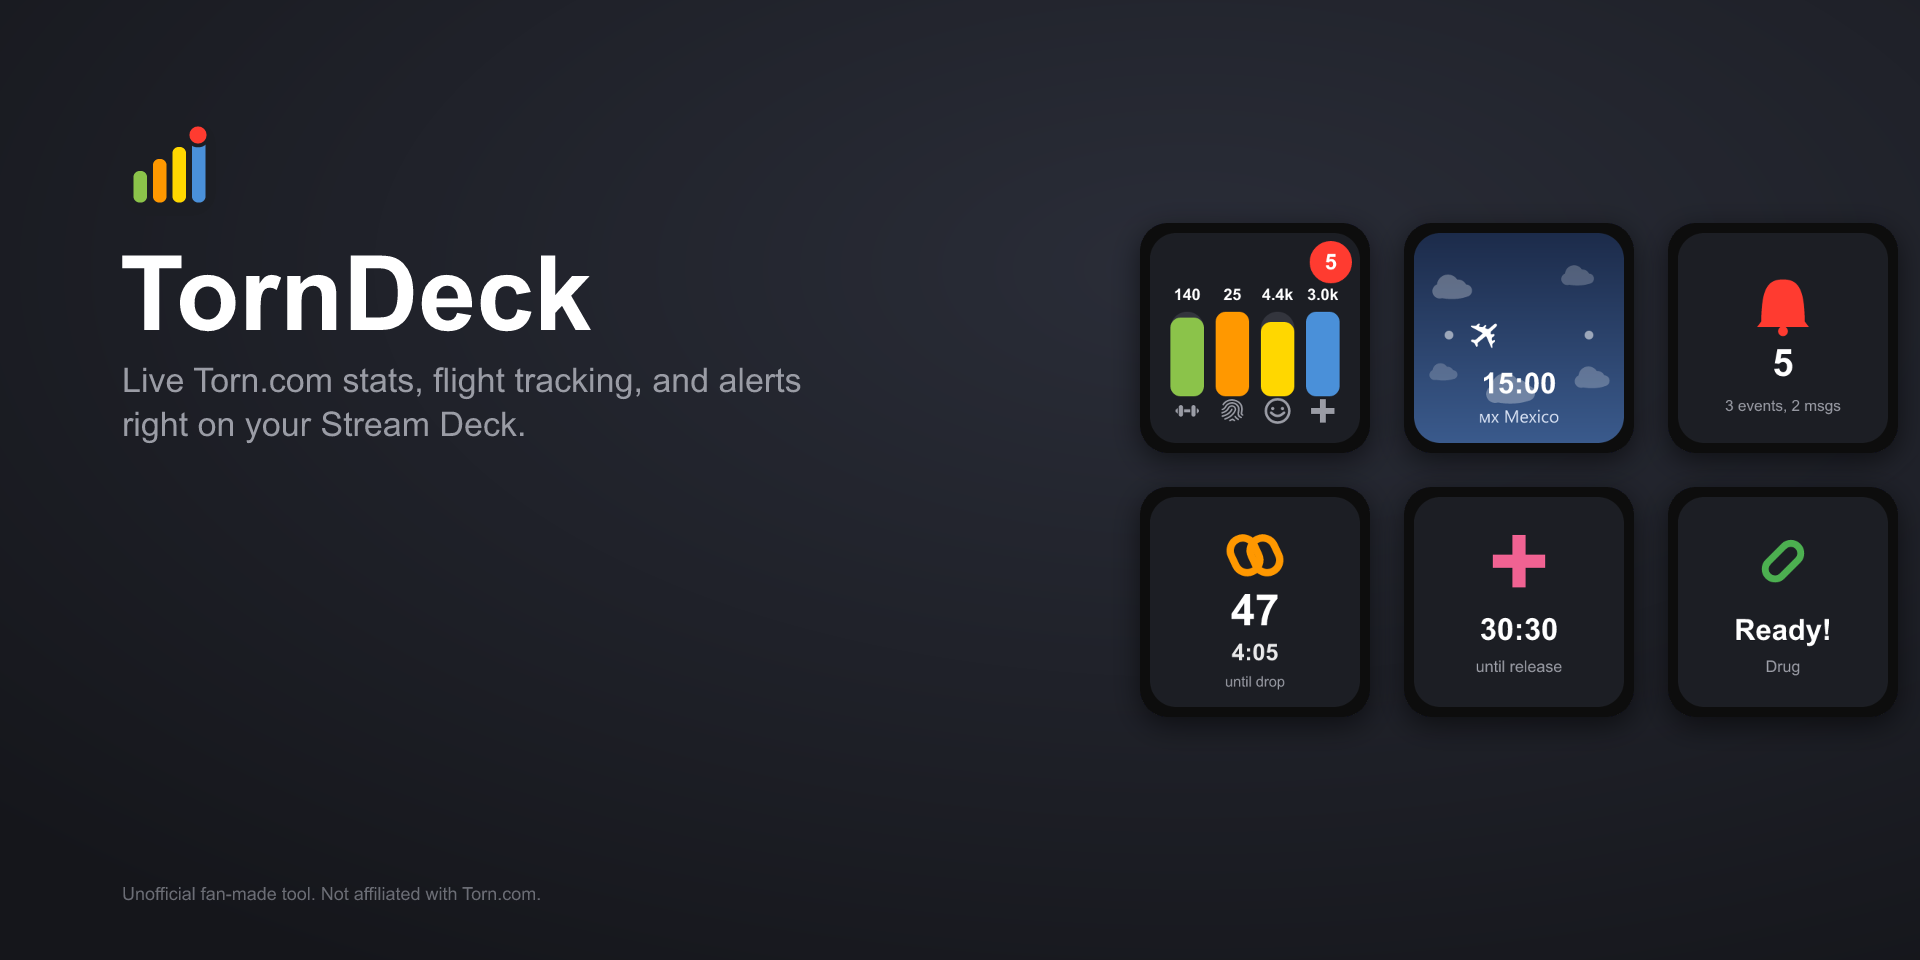
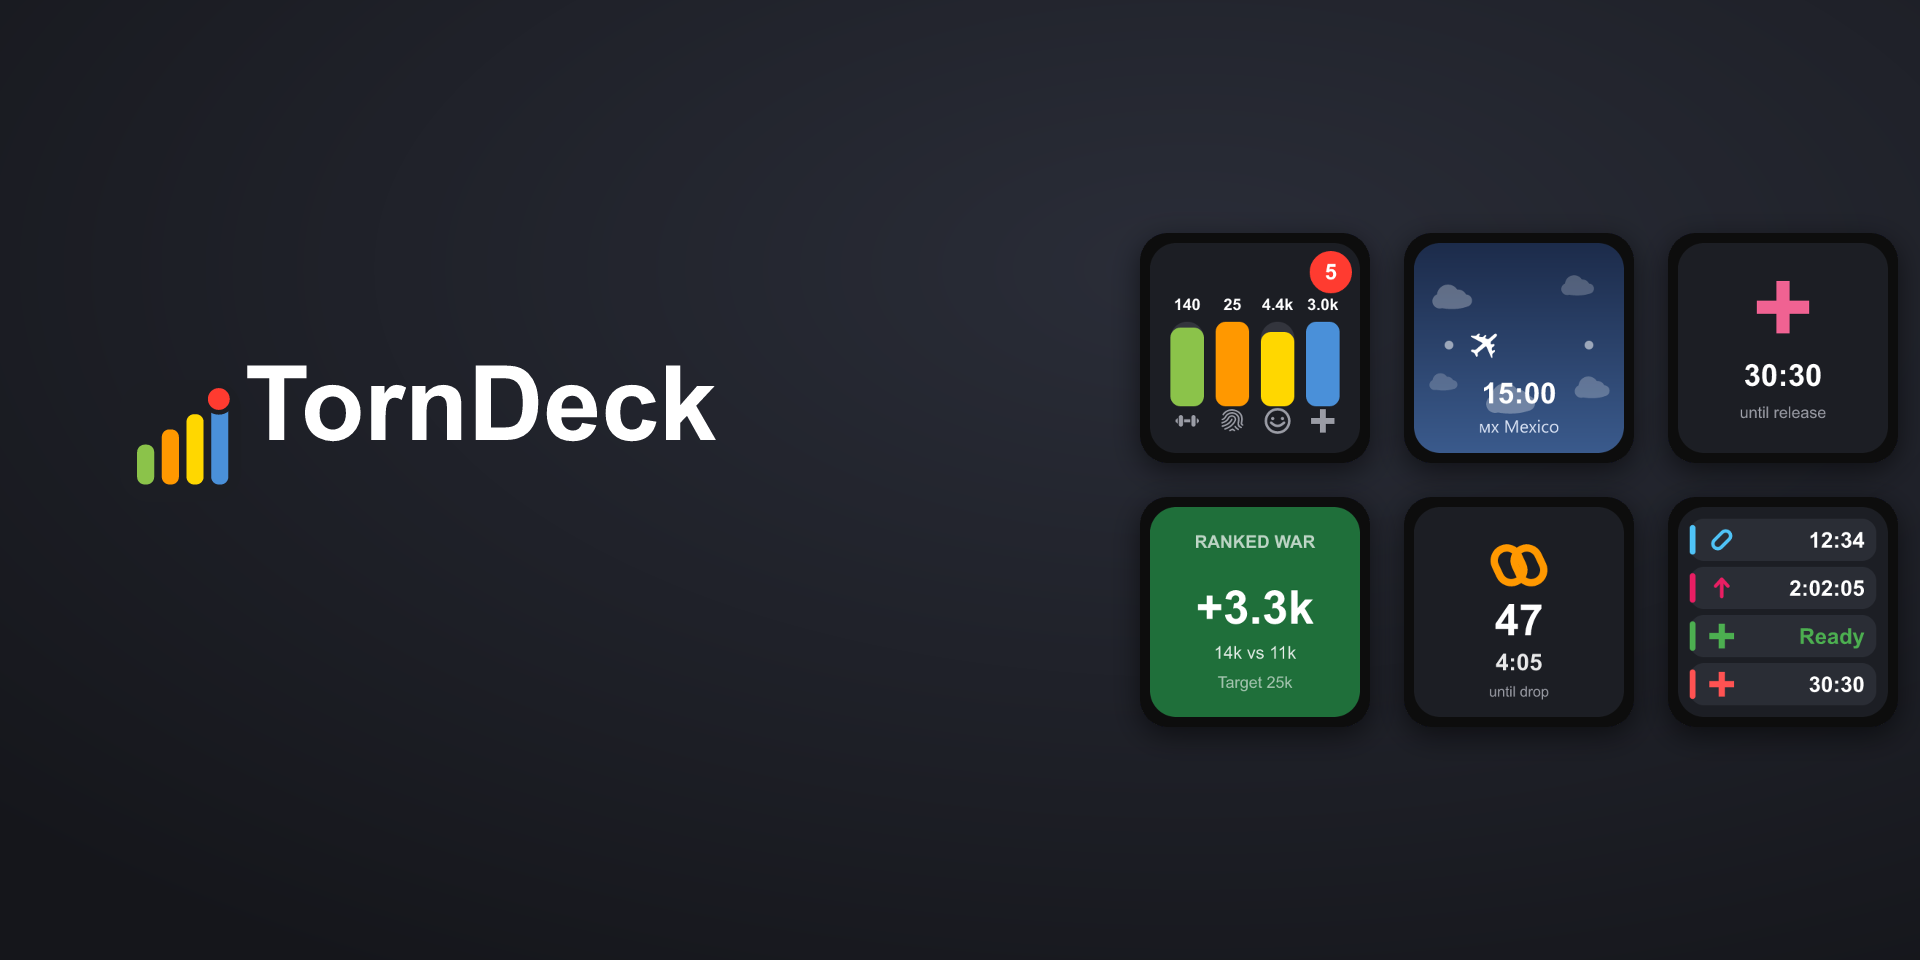
Fix Hospital/TCT checkboxes defaulting on, redo Marketplace gallery
sdpi-checkbox treats any non-empty default attribute as truthy, so
default="false" on the Cooldowns' Hospital row and the Status key's
"show time" checkbox actually defaulted them ON, not off - the opposite
of what the settings UI showed and what the docs said. Fixed by
omitting the attribute (bare = false), the same pattern already used
elsewhere in these files.

Also replaces the outdated 7-action gallery images with a set covering
all 10 actions, with far less text per Elgato's gallery guidelines, and
a real settings-panel screenshot (which is what surfaced the checkbox
bug). Bump to 1.0.6.0.

diff --git a/torndeck/com.callz.torndeck.sdPlugin/ui/cooldowns.html b/torndeck/com.callz.torndeck.sdPlugin/ui/cooldowns.html
@@ -31,7 +31,7 @@
     <sdpi-checkbox setting="showDrug" label="Drug" default="true"></sdpi-checkbox>
     <sdpi-checkbox setting="showBooster" label="Booster" default="true"></sdpi-checkbox>
     <sdpi-checkbox setting="showMedical" label="Medical" default="true"></sdpi-checkbox>
-    <sdpi-checkbox setting="showHospital" label="Hospital" default="false"></sdpi-checkbox>
+    <sdpi-checkbox setting="showHospital" label="Hospital"></sdpi-checkbox>
   </sdpi-item>
 
   <sdpi-item>

diff --git a/torndeck/com.callz.torndeck.sdPlugin/ui/status.html b/torndeck/com.callz.torndeck.sdPlugin/ui/status.html
@@ -24,7 +24,7 @@
   </sdpi-item>
 
   <sdpi-item label="TCT">
-    <sdpi-checkbox setting="showTct" label="Show time above status" default="false"></sdpi-checkbox>
+    <sdpi-checkbox setting="showTct" label="Show time above status"></sdpi-checkbox>
   </sdpi-item>
   <sdpi-item>
     <p class="hint">Shows a small Torn City Time (UTC) along the top of the key, above whatever the status is.</p>
